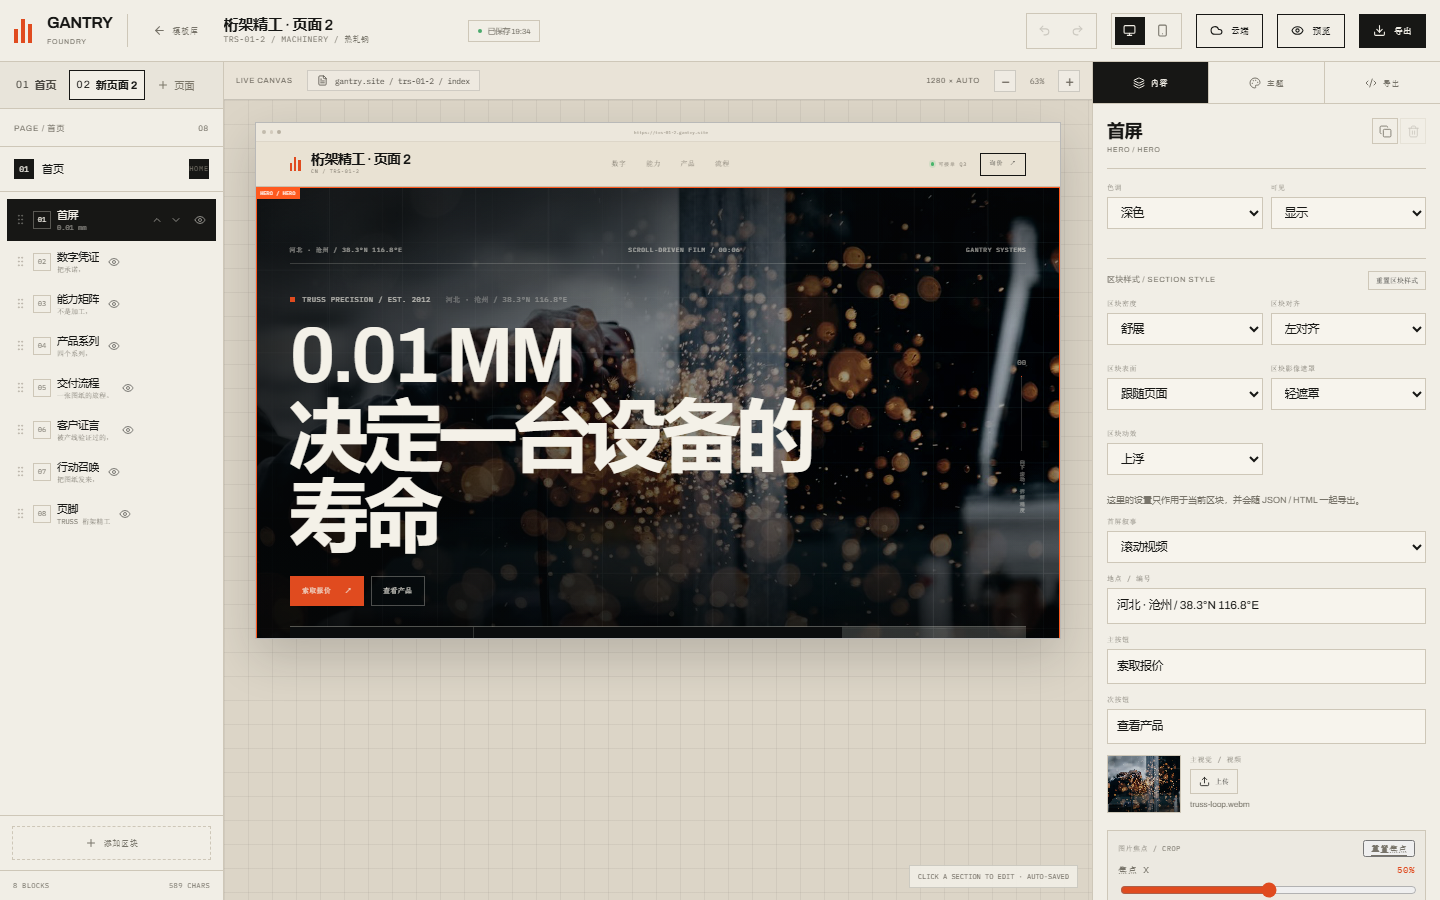
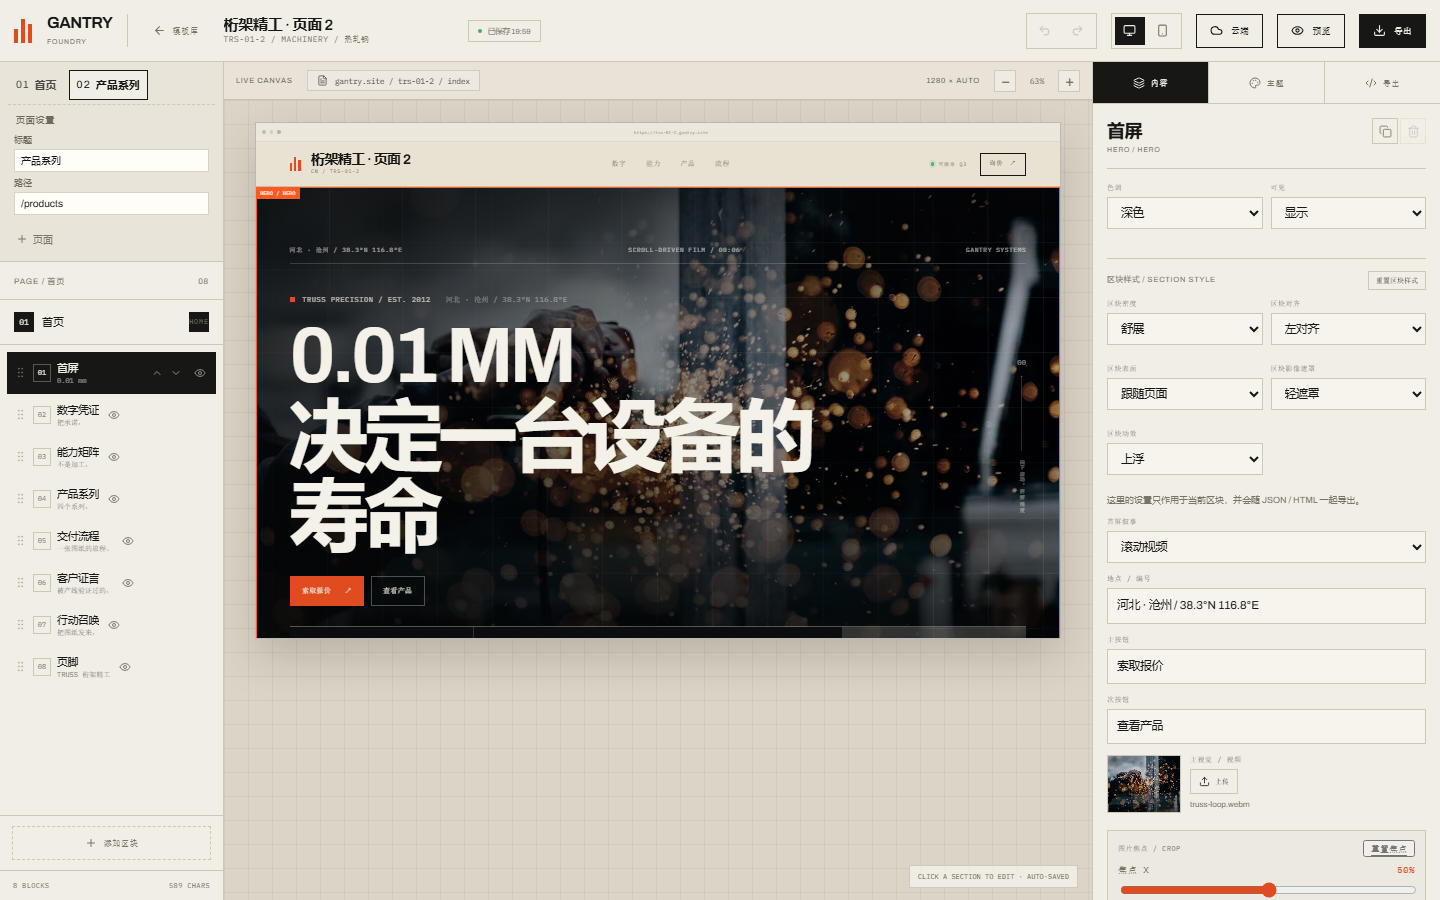
feat(frontend): edit page titles and paths in the page rail
Add an inline page-settings panel to the multi-page rail so authors can rename a page and normalize its public path before saving to the cloud.

Cover the rename and cloud round-trip in the Playwright cloud flow.

Changed region(s): [[0.0, 0.1244, 0.1562, 0.7467], [0.0625, 0.0933, 0.125, 0.1244]]

diff --git a/frontend/src/components/builder/Builder.tsx b/frontend/src/components/builder/Builder.tsx
@@ -31,9 +31,20 @@ function PageTabs() {
   const switchPage = useProjectStore((state) => state.switchPage);
   const addPage = useProjectStore((state) => state.addPage);
   const syncActive = useProjectStore((state) => state.syncActive);
+  const updatePageMeta = useProjectStore((state) => state.updatePageMeta);
   const doc = useBuilderStore((state) => state.doc);
+  const activePage = pages.find((page) => page.key === activeKey);
 
   if (!doc || pages.length === 0) return null;
+
+  const commitMeta = (
+    key: string,
+    patch: { title?: string; path?: string },
+  ) => {
+    if (patch.title !== undefined && !patch.title.trim()) return;
+    if (patch.path !== undefined && !patch.path.trim()) return;
+    updatePageMeta(key, patch);
+  };
 
   return (
     <div className="rail-pages">
@@ -53,6 +64,33 @@ function PageTabs() {
           <span className="mono">{page.path}</span>
         </button>
       ))}
+      {activePage ? (
+        <details className="rail-page-meta" key={activePage.key}>
+          <summary>页面设置</summary>
+          <label>
+            <span>标题</span>
+            <input
+              defaultValue={activePage.title}
+              aria-label="页面标题"
+              onBlur={(event) => commitMeta(activePage.key, { title: event.target.value })}
+              onKeyDown={(event) => {
+                if (event.key === 'Enter') event.currentTarget.blur();
+              }}
+            />
+          </label>
+          <label>
+            <span>路径</span>
+            <input
+              defaultValue={activePage.path}
+              aria-label="页面路径"
+              onBlur={(event) => commitMeta(activePage.key, { path: event.target.value })}
+              onKeyDown={(event) => {
+                if (event.key === 'Enter') event.currentTarget.blur();
+              }}
+            />
+          </label>
+        </details>
+      ) : null}
       <button
         type="button"
         className="rail-page-add"

diff --git a/frontend/e2e/cloud.spec.ts b/frontend/e2e/cloud.spec.ts
@@ -21,6 +21,11 @@ test('registers, saves a multi-page project and reopens it from cloud', async ({
   await page.getByRole('button', { name: '添加页面' }).click();
   await expect(page.locator('.rail-pages')).toContainText('新页面 2');
   await page.getByRole('button', { name: '新页面 2' }).click();
+  await page.getByText('页面设置').click();
+  await page.getByLabel('页面标题').fill('产品系列');
+  await page.getByLabel('页面标题').press('Enter');
+  await page.getByLabel('页面路径').fill('/products');
+  await page.getByLabel('页面路径').press('Enter');
 
   await page.getByRole('button', { name: '云端' }).click();
   await expect(page.getByText(/云端已保存/)).toBeVisible({ timeout: 15_000 });
@@ -35,5 +40,5 @@ test('registers, saves a multi-page project and reopens it from cloud', async ({
   await expect(page.getByRole('dialog', { name: '云端项目' })).toBeVisible();
   await page.locator('.cloud-project').first().click();
   await expect(page.locator('.builder')).toBeVisible();
-  await expect(page.locator('.rail-pages')).toContainText('新页面 2');
+  await expect(page.locator('.rail-pages')).toContainText('产品系列');
 });

diff --git a/frontend/src/store/project.ts b/frontend/src/store/project.ts
@@ -114,8 +114,7 @@ export const useProjectStore = create<ProjectState>()((set, get) => ({
   },
 
   addPage: (doc) => {
-    const { pages, activeKey } = get();
-    const active = pages.find((page) => page.key === activeKey);
+    const { pages } = get();
     const count = pages.length + 1;
     let path = `/page-${count}`;
     while (pages.some((page) => page.path === path)) path = `${path}-${count}`;
@@ -132,12 +131,7 @@ export const useProjectStore = create<ProjectState>()((set, get) => ({
       version: 0,
     };
     set({ pages: [...pages, next], activeKey: next.key, dirty: true });
-    import('./builder').then(({ useBuilderStore }) =>
-      useBuilderStore.getState().replaceDocument(next.document),
-    );
-    if (active) {
-      // Keep the previous page's last edit; the caller syncs before adding.
-    }
+    useBuilderStore.getState().replaceDocument(next.document);
   },
 
   removePage: (key) => {

diff --git a/frontend/src/styles/shell.css b/frontend/src/styles/shell.css
@@ -3217,3 +3217,28 @@ a {
   cursor: pointer;
 }
 .export-login-note button:hover { background: #7b301c; color: #fff7ef; }
+
+.rail-page-meta {
+  flex-basis: 100%;
+  padding: 4px 6px 6px;
+  border-top: 1px dashed #cfc8b9;
+  color: #6f6a5e;
+  font-size: 9px;
+}
+.rail-page-meta summary {
+  padding: 4px 2px;
+  cursor: pointer;
+  letter-spacing: 0.08em;
+  list-style: none;
+}
+.rail-page-meta summary::-webkit-details-marker { display: none; }
+.rail-page-meta label { display: grid; gap: 4px; margin-top: 4px; }
+.rail-page-meta input {
+  width: 100%;
+  padding: 5px 6px;
+  border: 1px solid #d8d2c5;
+  background: #fffdf8;
+  color: var(--shell-ink);
+  font: inherit;
+  font-size: 10px;
+}
